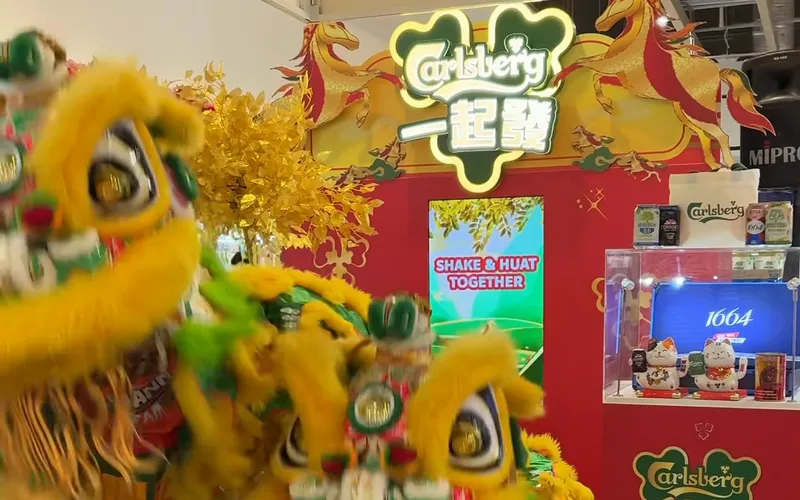
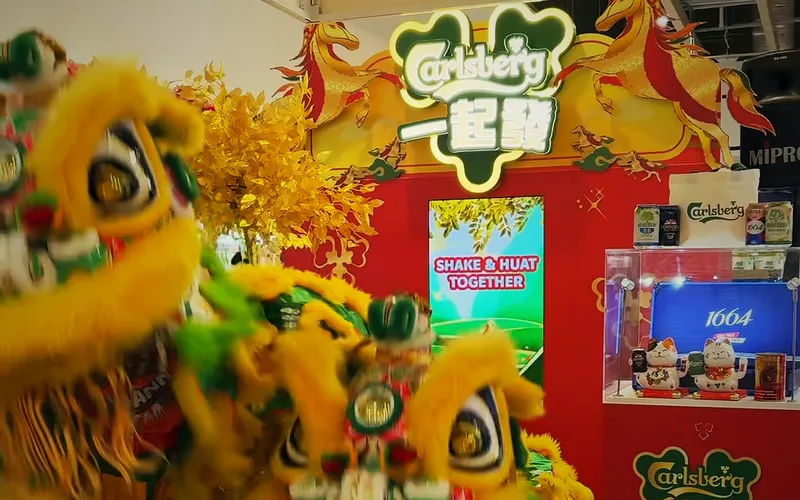
Carlsberg: upscaled, regraded hero

diff --git a/public/index.html b/public/index.html
@@ -128,7 +128,7 @@
           <li class="pcard-cell" data-client="Carlsberg" hidden>
             <div class="pcard">
               <a class="pcard-link" href="/portfolio/carlsberg-cny-2026-supermarket-activation/" data-label="Carlsberg" data-hover-scramble data-cursor-text="Carlsberg CNY 2026 Supermarket Activation">
-                <span class="pcard-media" aria-hidden="true"><img src="/assets/img/projects/carlsberg-cny-2026-supermarket-activation/cover.webp" srcset="/assets/img/projects/carlsberg-cny-2026-supermarket-activation/cover-800.webp 800w, /assets/img/projects/carlsberg-cny-2026-supermarket-activation/cover.webp 1080w" sizes="(min-width: 761px) 34vw, 100vw" alt="" width="1080" height="675" loading="lazy"></span>
+                <span class="pcard-media" aria-hidden="true"><img src="/assets/img/projects/carlsberg-cny-2026-supermarket-activation/cover.webp" srcset="/assets/img/projects/carlsberg-cny-2026-supermarket-activation/cover-800.webp 800w, /assets/img/projects/carlsberg-cny-2026-supermarket-activation/cover-1200.webp 1200w, /assets/img/projects/carlsberg-cny-2026-supermarket-activation/cover.webp 1920w" sizes="(min-width: 761px) 34vw, 100vw" alt="" width="1920" height="1200" loading="lazy"></span>
                 <span class="pcard-top">
                   <span class="pcard-bubbles"><span class="bubble"><span>Roadshow</span><span class="copy" aria-hidden="true">Roadshow</span></span></span>
                   <span class="pcard-logo"><span class="pcard-logo-img" role="img" aria-label="Carlsberg" style="--w:293;--h:116;--src:url(/assets/img/brands/carlsberg.png)"></span></span>

diff --git a/public/portfolio/index.html b/public/portfolio/index.html
@@ -91,7 +91,7 @@
           <span class="work-meta">Cycle &amp; Carriage · 2026</span>
         </a>
         <a class="work-card" id="carlsberg-cny-2026-supermarket-activation" href="/portfolio/carlsberg-cny-2026-supermarket-activation/" data-type="roadshow" data-search="carlsberg cny 2026 chinese new year supermarket activation roadshow fairprice money tree 摇钱树 一起發 game, january 2026 roadshow fixture design, interactive game design" data-label="Carlsberg">
-          <span class="work-media"><img src="/assets/img/projects/carlsberg-cny-2026-supermarket-activation/cover.webp" srcset="/assets/img/projects/carlsberg-cny-2026-supermarket-activation/cover-800.webp 800w, /assets/img/projects/carlsberg-cny-2026-supermarket-activation/cover.webp 1080w" sizes="(min-width: 1024px) 33vw, (min-width: 640px) 50vw, 100vw" alt="Carlsberg CNY 2026 Supermarket Activation" width="1080" height="675" loading="lazy"></span>
+          <span class="work-media"><img src="/assets/img/projects/carlsberg-cny-2026-supermarket-activation/cover.webp" srcset="/assets/img/projects/carlsberg-cny-2026-supermarket-activation/cover-800.webp 800w, /assets/img/projects/carlsberg-cny-2026-supermarket-activation/cover-1200.webp 1200w, /assets/img/projects/carlsberg-cny-2026-supermarket-activation/cover.webp 1920w" sizes="(min-width: 1024px) 33vw, (min-width: 640px) 50vw, 100vw" alt="Carlsberg CNY 2026 Supermarket Activation" width="1920" height="1200" loading="lazy"></span>
           <span class="work-title">CNY 2026 Supermarket Activation</span>
           <span class="work-meta">Carlsberg · 2026</span>
         </a>

diff --git a/public/portfolio/carlsberg-cny-2026-supermarket-activation/index.html b/public/portfolio/carlsberg-cny-2026-supermarket-activation/index.html
@@ -56,7 +56,7 @@
   </div>
 
   <main id="main">
-    <figure class="project-hero"><img fetchpriority="high" src="/assets/img/projects/carlsberg-cny-2026-supermarket-activation/cover.webp" srcset="/assets/img/projects/carlsberg-cny-2026-supermarket-activation/cover-800.webp 800w, /assets/img/projects/carlsberg-cny-2026-supermarket-activation/cover.webp 1080w" sizes="100vw" alt="Lion dancers in front of the Carlsberg booth, its lighted 一起發 header above the game screen" width="1080" height="675"></figure>
+    <figure class="project-hero"><img fetchpriority="high" src="/assets/img/projects/carlsberg-cny-2026-supermarket-activation/cover.webp" srcset="/assets/img/projects/carlsberg-cny-2026-supermarket-activation/cover-800.webp 800w, /assets/img/projects/carlsberg-cny-2026-supermarket-activation/cover-1200.webp 1200w, /assets/img/projects/carlsberg-cny-2026-supermarket-activation/cover.webp 1920w" sizes="100vw" alt="Lion dancers in front of the Carlsberg booth, its lighted 一起發 header above the game screen" width="1920" height="1200"></figure>
     <article class="page">
       <a class="pill back" href="/portfolio/#carlsberg-cny-2026-supermarket-activation" data-back><span class="back-arrow" aria-hidden="true">←</span>Back to work</a>
       <header class="page-head">

diff --git a/CLAUDE.md b/CLAUDE.md
@@ -85,4 +85,4 @@ New projects arrive in `submissions/<slug>/` (outside `public/`, so never publis
 - FAQ "You’re a small studio": answered as lean on purpose (the founder leads every job, senior attention throughout, made for the brief rather than a template; specialists join bigger jobs; one contact).
 - Video on project pages (first used on Zacapa Centenario 23 VR, 2026-10-25): short gameplay loops as `<video muted loop playsinline preload="none" poster data-inview-play>` inside `.media.mosaic` figures; `site.js` plays them only while on screen and pauses them off screen (reduced motion: poster plus controls, no autoplay). Clips live in `public/assets/video/<slug>/clip-NN.mp4`, served through the Worker (`run_worker_first` covers `/assets/video/*`; `serveVideo` answers Range requests with 206, which Safari and iPhones need to play video; static assets alone return 200): `clip-NN.mp4` (H.264, 1280x720, 30fps, no audio, CRF 25, faststart, about 0.5 to 1.6 MB for 5 to 7 s) and `clip-NN.webp` posters (first frame) beside the images in `assets/img/projects/<slug>/`. No fades at the start: a paused clip shows its first frame. Stills taken from a film are cropped to 2:1 (1920x960) above the burnt-in subtitle band; the 16:10 cover is cropped from the same frame.
 - Zacapa Centenario 23 VR (Ron Zacapa, Diageo; Multimedia): Nicholas did concept, art direction and experience design, in collaboration with Light Trace Studio, Song Youngbin and Daryl Ho. Date February 2025 (confirmed by Nicholas; the video files said July 2025). Whether Nicholas worked on the cinematic film is unconfirmed; the story says the experience was designed "alongside a cinematic film of the same world".
-- Carlsberg CNY 2026 Supermarket Activation (Carlsberg; Roadshow; 2026-10-26): Nicholas did fixture design and interactive game design (the 摇钱树 money-tree game: shake the tree, coins fall on screen). Everything comes from one vertical behind-the-scenes phone video (1080x1920, subtitles burnt in from about y 1176 down), so stills are cropped above the subtitles (1080x1170) the game clip is the GIF from slide 4 of his Carlsberg deck, cropped to 800x450 the way he framed it (2026-10-26), and the full phone video (with sound, 720x1280, controls, no autoplay) sits under "Behind the scenes"; Nicholas wants only these two on the page (2026-10-26), no stills; the cover is a 16:10 crop of a subtitle-free frame (1080x675, softer than other covers). No renders were supplied; swap them in if he sends any. Date January 2026 is a guess from the file date and the CNY timing, unconfirmed. Sits between ORA 5 and PropW.
+- Carlsberg CNY 2026 Supermarket Activation (Carlsberg; Roadshow; 2026-10-26): Nicholas did fixture design and interactive game design (the 摇钱树 money-tree game: shake the tree, coins fall on screen). Everything comes from one vertical behind-the-scenes phone video (1080x1920, subtitles burnt in from about y 1176 down), so stills are cropped above the subtitles (1080x1170) the game clip is the GIF from slide 4 of his Carlsberg deck, cropped to 800x450 the way he framed it (2026-10-26), and the full phone video (with sound, 720x1280, controls, no autoplay) sits under "Behind the scenes"; Nicholas wants only these two on the page (2026-10-26), no stills; the cover is a 16:10 crop of a subtitle-free frame, upscaled to 1920x1200 (Lanczos, light denoise and sharpen) and graded warmer and richer with the ceiling toned down (2026-10-26; still softer than other covers). No renders were supplied; swap them in if he sends any. Date January 2026 is a guess from the file date and the CNY timing, unconfirmed. Sits between ORA 5 and PropW.
